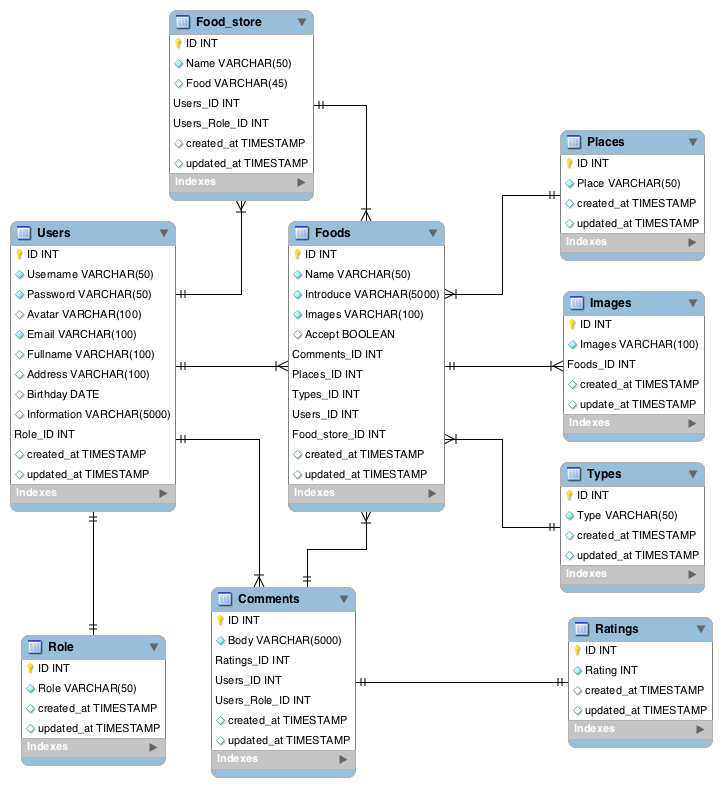
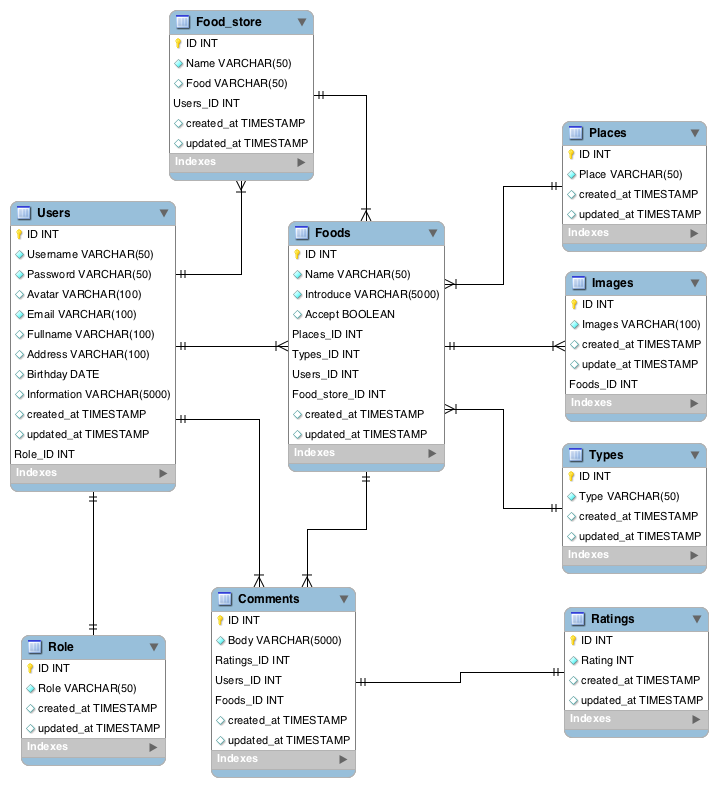
Edit relationship

diff --git a/app/Http/Controllers/Backend/FoodController.php b/app/Http/Controllers/Backend/FoodController.php
@@ -91,8 +91,7 @@ class FoodController extends Controller
                     'place_food_id' => $resultPlace['id'],
                     'types_id' => $request->type,
                     'users_id' => 1,
-                    'food_store_id' => $request->food_store,
-                    'comment_id' => 1
+                    'food_store_id' => $request->food_store
                 ]);
             if ($result) {
                 if ($request->hasFile('image')) {
@@ -190,10 +189,11 @@ class FoodController extends Controller
             $count = $this->foodrepo->find($id);
             if (!empty($count)) {
                 $imageItem=$this->imagerepo->findByField('foods_id', $id, ['id']);
-                for ($i=0; $i<count($imageItem); $i++) {
-                    $result1=$this->imagerepo->delete($imageItem[$i]['id']);
-                }
-                if ($result1) {
+                // for ($i=0; $i<count($imageItem); $i++) {
+                //     $result1=$this->imagerepo->delete($imageItem[$i]['id']);
+                // }
+                $commentItem=$this->commentrepo->findByField('foods_id', $id, ['id']);
+                if (count($imageItem) == config('define.result_food') && count($commentItem) == config('define.result_food')) {
                     $result = $this->foodrepo->delete($id);
                     if ($result) {
                         Session::flash(trans('lang_admin_manager_user.success_cf'), trans('admin_manager_food.delete_success'));

diff --git a/database/migrations/2016_08_19_072329_create_foods_table.php b/database/migrations/2016_08_19_072329_create_foods_table.php
@@ -25,8 +25,6 @@ class CreateFoodsTable extends Migration
             $table->foreign('users_id')->references('id')->on('users');
             $table->integer('food_store_id')->unsigned();
             $table->foreign('food_store_id')->references('id')->on('food_stores');
-            $table->integer('comment_id')->unsigned();
-            $table->foreign('comment_id')->references('id')->on('comments');
             $table->timestamps();
         });
     }

diff --git a/database/migrations/2016_08_19_072330_create_comments_table.php b/database/migrations/2016_08_19_072330_create_comments_table.php
@@ -19,6 +19,8 @@ class CreateCommentsTable extends Migration
             $table->foreign('users_id')->references('id')->on('users');
             $table->integer('ratings_id')->unsigned();
             $table->foreign('ratings_id')->references('id')->on('ratings');
+            $table->integer('foods_id')->unsigned();
+            $table->foreign('foods_id')->references('id')->on('foods');
             $table->timestamps();
         });
     }

diff --git a/database/seeds/DatabaseSeeder.php b/database/seeds/DatabaseSeeder.php
@@ -16,9 +16,9 @@ class DatabaseSeeder extends Seeder
         $this->call(RoleTableSeeder::class);
         $this->call(UsersTableSeeder::class);
         $this->call(RatingTableSeeder::class);
-        $this->call(CommentTableSeeder::class);
         $this->call(FoodStoreTableSeeder::class);
         $this->call(FoodTableSeeder::class);
+        $this->call(CommentTableSeeder::class);
         $this->call(ImageTableSeeder::class);
     }
 }

diff --git a/database/seeds/CommentTableSeeder.php b/database/seeds/CommentTableSeeder.php
@@ -18,6 +18,7 @@ class CommentTableSeeder extends Seeder
         		'body'     => $faker-> text,
         		'users_id'   	  => rand(1,10),
         		'ratings_id'	  => rand(1,5),
+                'foods_id'         => rand(1,10),
         		'created_at'      => $faker-> dateTime
         	]);
         }    }

diff --git a/database/seeds/FoodTableSeeder.php b/database/seeds/FoodTableSeeder.php
@@ -22,7 +22,6 @@ class FoodTableSeeder extends Seeder
         		'types_id'        => rand(1,10),
         		'users_id'		  => rand(1,10),
         		'food_store_id'   => rand(1,10),
-                'comment_id'      => rand(1,10),
         		'created_at'      => $faker-> dateTime
         	]);
         }

diff --git a/config/define.php b/config/define.php
@@ -14,4 +14,5 @@ return [
 	'error401' => 401,
 	'unauthorized' => 'Unauthorized.',
 	'slider' => 2500,
+	'result_food' => 0,
 ];
